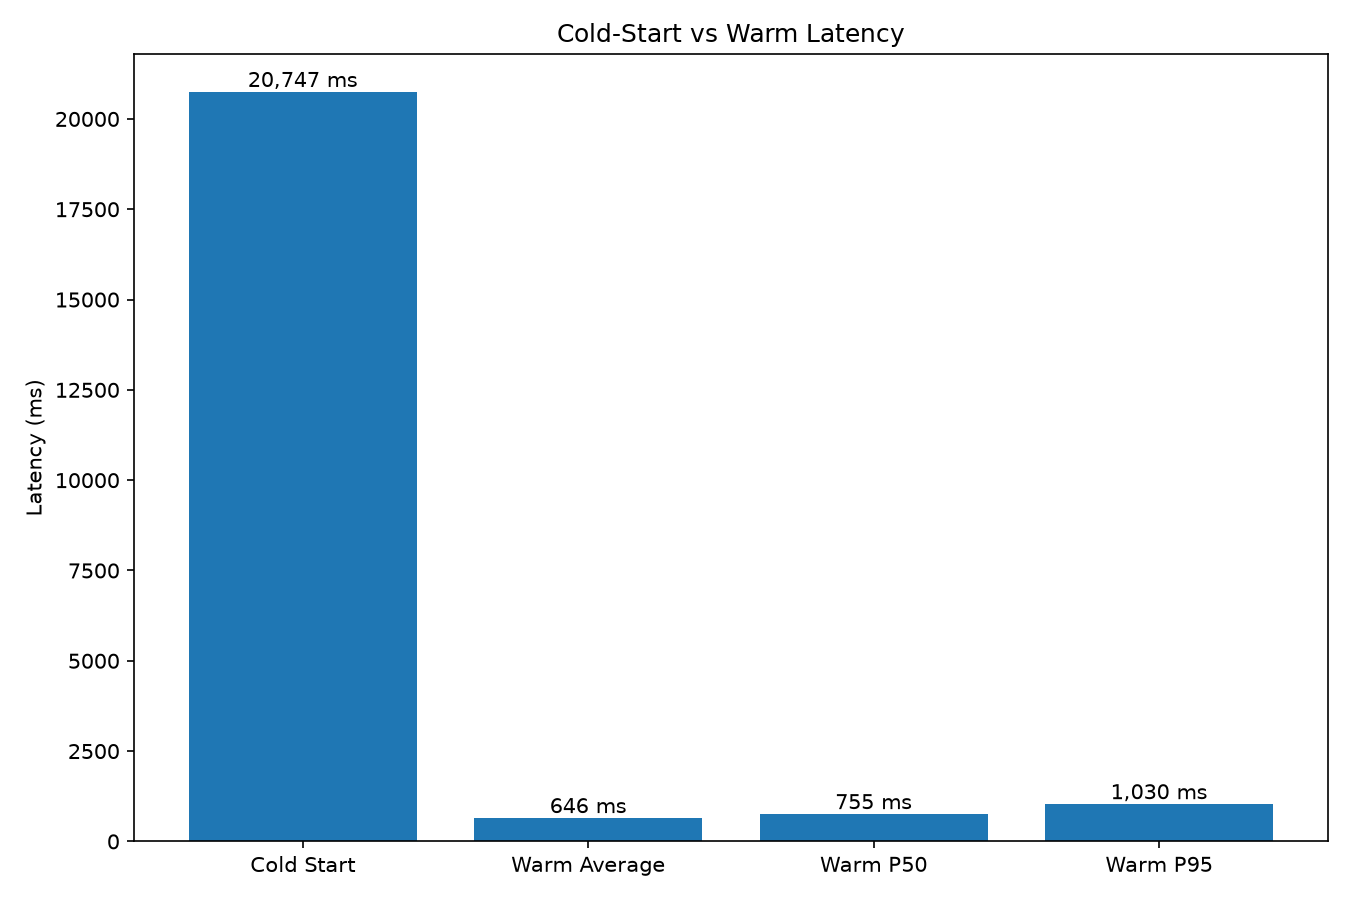
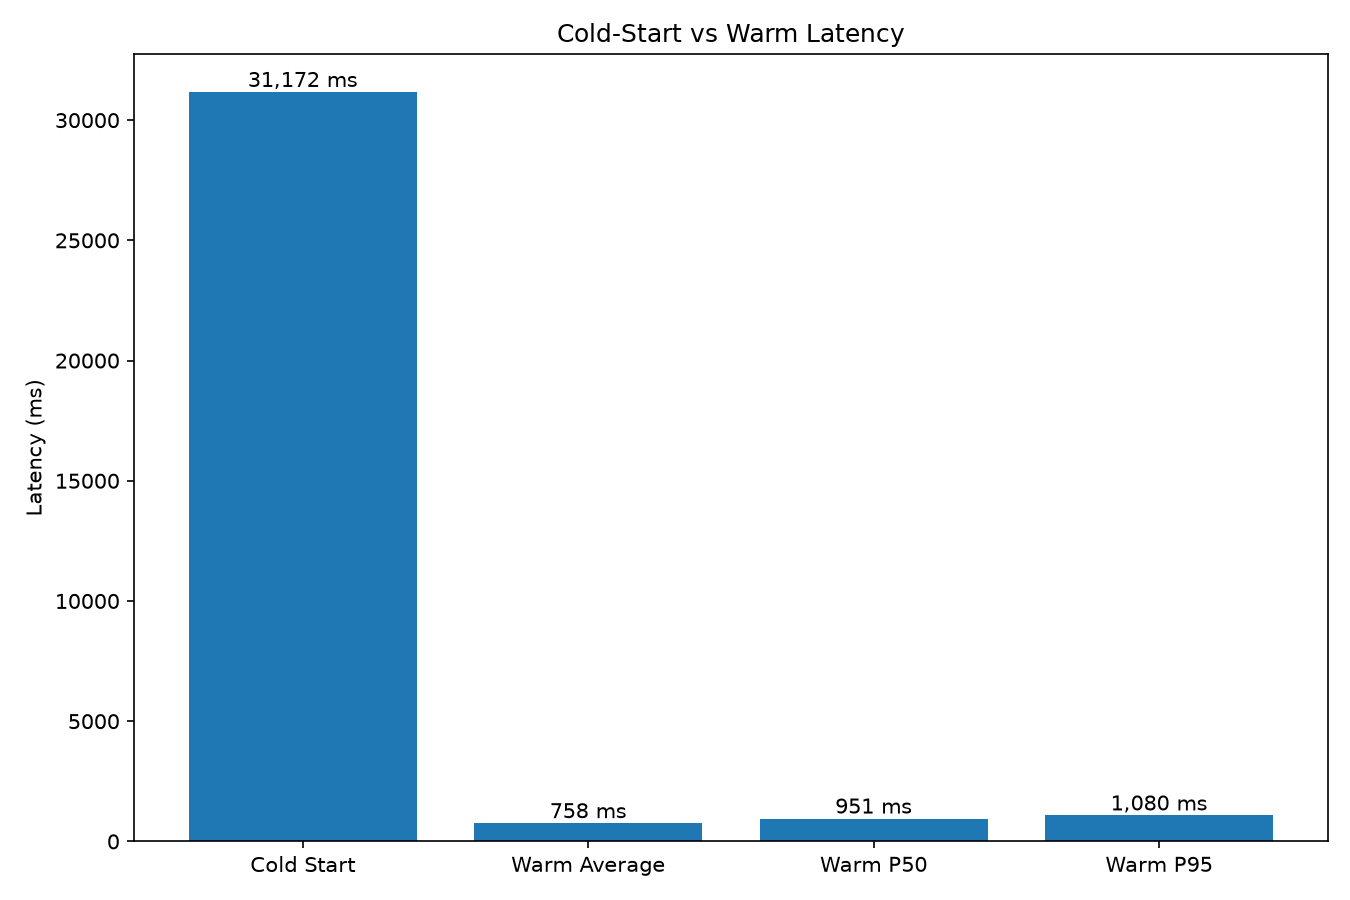
Complete evaluation and cost reporting

diff --git a/evals/summary_routing_results.py b/evals/summary_routing_results.py
@@ -1,0 +1,108 @@
+import json
+import math
+from collections import defaultdict
+from pathlib import Path
+
+RESULTS_PATH = Path("evals/routing_evaluation_results.json")
+
+
+def percentile(values, percentile_value):
+    """Calculate a percentile using the nearest-rank method."""
+    values = sorted(values)
+
+    if not values:
+        return None
+
+    index = math.ceil((percentile_value / 100) * len(values)) - 1
+    return values[max(0, index)]
+
+
+def main():
+    with RESULTS_PATH.open(encoding="utf-8") as file:
+        evaluation = json.load(file)
+
+    results = evaluation["results"]
+
+    if not results:
+        print("No evaluation results found.")
+        return
+
+    groups = defaultdict(list)
+
+    for result in results:
+        groups[result["category"]].append(result)
+
+    passed_count = sum(result["passed"] for result in results)
+    failed_count = len(results) - passed_count
+
+    print("=" * 55)
+    print("ROUTING EVALUATION SUMMARY")
+    print("=" * 55)
+
+    print(f"Total cases: {len(results)}")
+    print(f"Passed: {passed_count}")
+    print(f"Failed: {failed_count}")
+    print(f"Overall pass rate: {100 * passed_count / len(results):.1f}%")
+
+    print("\nPASS RATE BY CATEGORY")
+    print("-" * 55)
+
+    for category, items in sorted(groups.items()):
+        passed = sum(item["passed"] for item in items)
+        total = len(items)
+        rate = 100 * passed / total
+
+        print(f"{category}: {passed}/{total} ({rate:.1f}%)")
+
+    all_latencies = [
+        result["latency_ms"]
+        for result in results
+    ]
+
+    warm_latencies = [
+        result["latency_ms"]
+        for result in results
+        if not result.get("retrieval_cold_start", False)
+    ]
+
+    print("\nLATENCY")
+    print("-" * 55)
+
+    for label, values in [
+        ("All cases", all_latencies),
+        ("Warm cases", warm_latencies),
+    ]:
+        if not values:
+            print(f"{label}: no data")
+            continue
+
+        print(f"{label}:")
+        print(f"  Count: {len(values)}")
+        print(f"  p50: {percentile(values, 50):.2f} ms")
+        print(f"  p95: {percentile(values, 95):.2f} ms")
+        print(f"  Max: {max(values):.2f} ms")
+
+    print("\nPROMPT-INJECTION CASES")
+    print("-" * 55)
+
+    injection_cases = groups.get("Prompt-injection", [])
+
+    blocked = sum(
+        item["passed"] and item["actual_tool"] == "guardrail"
+        for item in injection_cases
+    )
+
+    if injection_cases:
+        print(
+            f"Blocked as expected: "
+            f"{blocked}/{len(injection_cases)} "
+            f"({100 * blocked / len(injection_cases):.1f}%)"
+        )
+    else:
+        print("No prompt-injection cases found.")
+
+    print("=" * 55)
+
+
+if __name__ == "__main__":
+    main()
